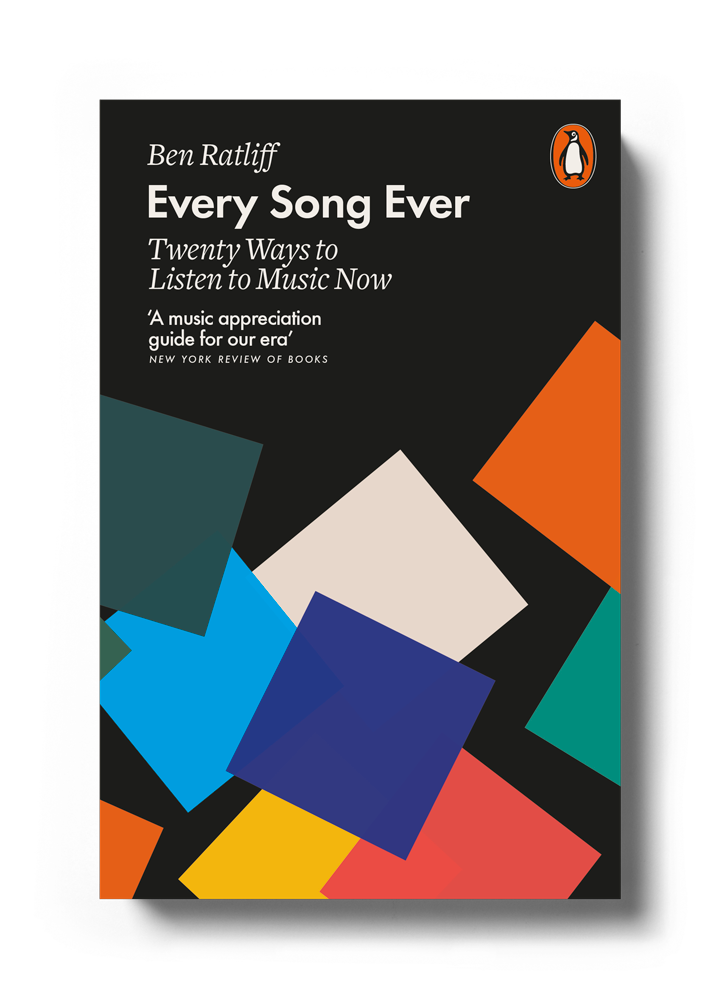
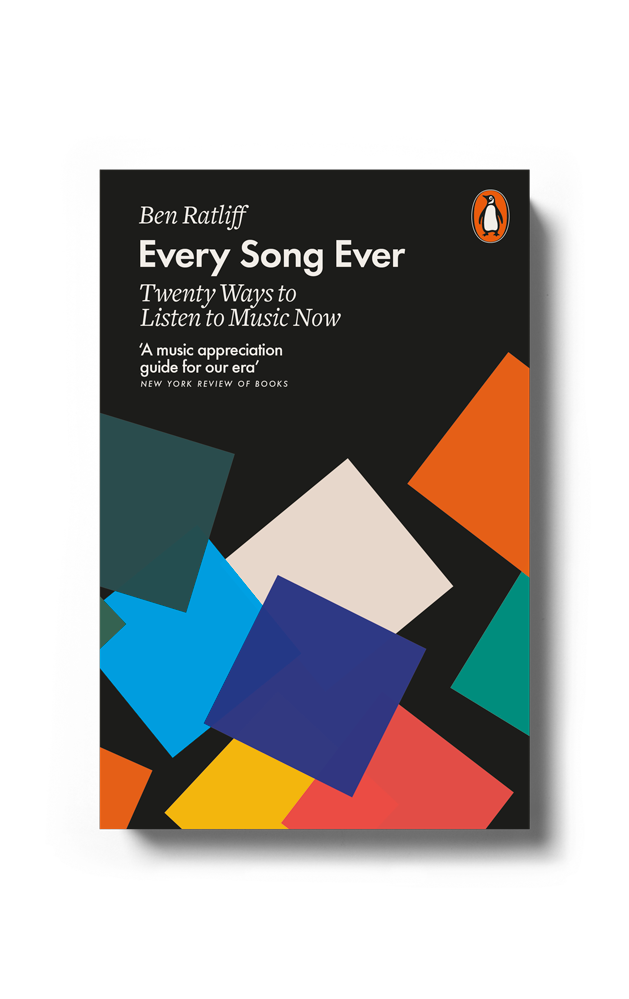
Horizontally scrolling index page.

diff --git a/dist/index.html b/dist/index.html
@@ -1,1 +1,1 @@
-<!DOCTYPE html><html lang="en"><head><title>MY MY MY — Matthew Young</title><meta charset="utf-8"><meta http-equiv="X-UA-Compatible" content="IE=edge"><meta name="viewport" content="width=device-width,initial-scale=1,maximum-scale=1,user-scalable=no"><link rel="stylesheet" href="/assets/main.css"></head><body><h1>MY MY MY</h1></body></html>
+<!DOCTYPE html><html lang="en"><head><title>MY MY MY — Matthew Young</title><meta charset="utf-8"><meta http-equiv="X-UA-Compatible" content="IE=edge"><meta name="viewport" content="width=device-width,initial-scale=1,maximum-scale=1,user-scalable=no"><link rel="stylesheet" href="/assets/main.css"><script src="https://use.typekit.net/tvi6sow.js"></script><script>try{Typekit.load({ async: true });}catch(e){}</script></head><body><nav><h1><a href="">MY&nbsp;MY&nbsp;MY</a></h1><p>Matthew Young is a multi-disciplinary designer based in London. He works at Penguin Random House by day, and takes on freelance work and side projects by night. <a href="/about">Oh&nbsp;please, tell me more.</a></p><ul><li>Book Covers</li><li>Text Design</li><li>Websites</li><li>Animations</li><li>About</li></ul></nav><figure class="book-cover"><img src="/assets/images/age-of-anger-01.png"></figure><figure class="book-cover"><img src="/assets/images/every-song-ever-01.png"></figure><figure class="book-cover"><img src="/assets/images/shakespeares-sonnets-01.png"></figure></body></html>

diff --git a/src/index.html b/src/index.html
@@ -8,12 +8,38 @@
 	<meta name="viewport" content="width=device-width, initial-scale=1.0, maximum-scale=1.0, user-scalable=no" />
 
 	<link rel="stylesheet" href="@@root_path/assets/main.css@@compressed">
+
+	<script src="https://use.typekit.net/tvi6sow.js"></script>
+	<script>try{Typekit.load({ async: true });}catch(e){}</script>
 	
 <!-- 	<script type="text/javascript" src="@@root_path/assets/app.js@@compressed"></script>
  --></head>
+
 <body>
-	
-	<h1>MY MY MY</h1>
+
+	<nav>
+		<h1><a href="@@root_path">MY&nbsp;MY&nbsp;MY</a></h1>
+		<p>Matthew Young is a multi-disciplinary designer based in London. He works at Penguin Random House by day, and takes on freelance work and side projects by night. <a href="@@root_path/about">Oh&nbsp;please, tell me more.</a></p>
+		<ul>
+			<li>Book Covers</li>
+			<li>Text Design</li>
+			<li>Websites</li>
+			<li>Animations</li>
+			<li>About</li>
+		</ul>
+	</nav>
+
+	<figure class="book-cover">
+		<img src="@@root_path/assets/images/age-of-anger-01.png">
+	</figure>
+
+	<figure class="book-cover">
+		<img src="@@root_path/assets/images/every-song-ever-01.png">
+	</figure>
+
+	<figure class="book-cover">
+		<img src="@@root_path/assets/images/shakespeares-sonnets-01.png">
+	</figure>
 
 </body>
 </html>

diff --git a/dist/assets/main.css b/dist/assets/main.css
@@ -137,18 +137,21 @@ html {
   -ms-text-size-adjust: 100%;
   -webkit-text-size-adjust: 100%;
 }
-html,
-body {
+html {
   width: 100%;
   height: 100%;
   font-size: 24px;
 }
 body {
+  width: 100%;
+  height: 100%;
   background-color: #ebebe6;
   color: #141414;
   font-family: "baskerville-urw", "Baskerville URW++", "Baskerville", "Baskerville Old Face", "Hoefler Text", Garamond, "Times New Roman", serif;
   font-weight: 400;
   line-height: 1.4rem;
+  overflow-x: scroll;
+  overflow-y: hidden;
   padding: 10vh;
   display: -ms-flexbox;
   display: flex;
@@ -160,6 +163,9 @@ body {
 nav {
   padding-right: calc(10vh + 1vh);
   border-right: 1px solid #141414;
+  width: 555px;
+  -ms-flex: none;
+      flex: none;
 }
 nav h1 {
   font-family: "Johnston", "p22-underground", "Gill Sans", "Gill Sans MT", sans-serif;
@@ -181,8 +187,6 @@ nav p a:visited {
 }
 figure.book-cover {
   padding-left: 1vh;
-}
-figure.book-cover.simple {
   width: 100%;
   height: 100%;
   display: -ms-flexbox;
@@ -194,7 +198,8 @@ figure.book-cover.simple {
   -ms-flex-align: end;
       align-items: flex-end;
 }
-figure.book-cover.simple img {
+figure.book-cover img {
   height: 100vh;
   margin-bottom: calc(-1 * 10vh);
+  margin-right: calc(-1 * 10vh);
 }

diff --git a/dist/index-2.html b/dist/index-2.html
@@ -1,0 +1,1 @@
+<!DOCTYPE html><html lang="en"><head><title>MY MY MY — Matthew Young</title><meta charset="utf-8"><meta http-equiv="X-UA-Compatible" content="IE=edge"><meta name="viewport" content="width=device-width,initial-scale=1,maximum-scale=1,user-scalable=no"><link rel="stylesheet" href="/assets/main.css"><script src="https://use.typekit.net/tvi6sow.js"></script><script>try{Typekit.load({ async: true });}catch(e){}</script></head><body><div id="one"></div><div id="two"></div></body></html>
